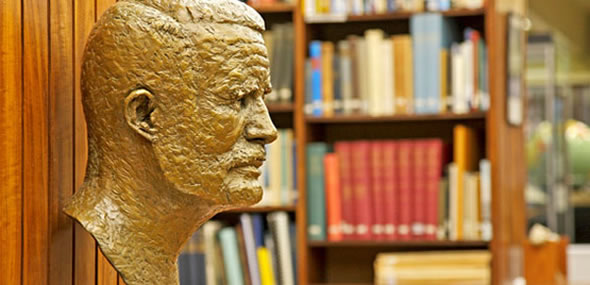
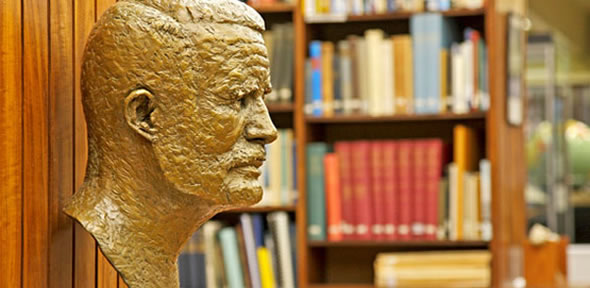
Further tweaks to image assets
The height of one of the image assets was off and has now been
corrected. This makes it scale to the next image size up which will
ease with CMS integration.

diff --git a/components/core-elements/image-handling.html b/components/core-elements/image-handling.html
@@ -46,7 +46,7 @@
 							<p><img alt=""  src="../../images/content/carousel-4.png" class="campl-scale-with-grid" /></p>
                         </div>	
 						<div class="campl-content-container">
-							<h4>Image dimensions of the following image are: 590px x 285px.</h4>
+							<h4>Image dimensions of the following image are: 590px x 288px.</h4>
 							<p>This size is used for full bleed inner page leading images (images that appear typically at the top of content pages). Note that this example and the one above it show at the same width as they have been sized to fit inside the width of the div in which they sit.</p>
 							<h4> <img alt=""  src="../../images/content/recessed-image-placeholder.jpg" class="campl-scale-with-grid" />						</h4>
 						</div>	
@@ -161,7 +161,7 @@
 
 								<h5>Full bleed inner page leading image	</h5>
 								<p>W: 590px</p>
-								<p>H: 285px</p>
+								<p>H: 288px</p>
 
 							<hr />
 							<h4>Interaction</h4>
